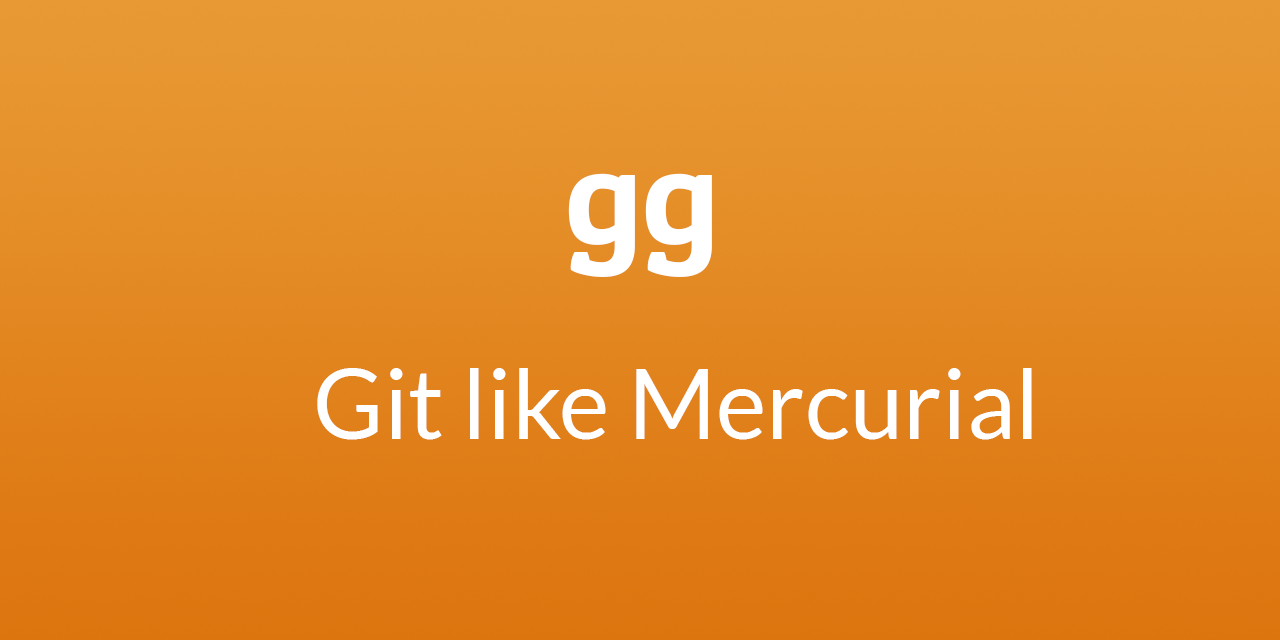
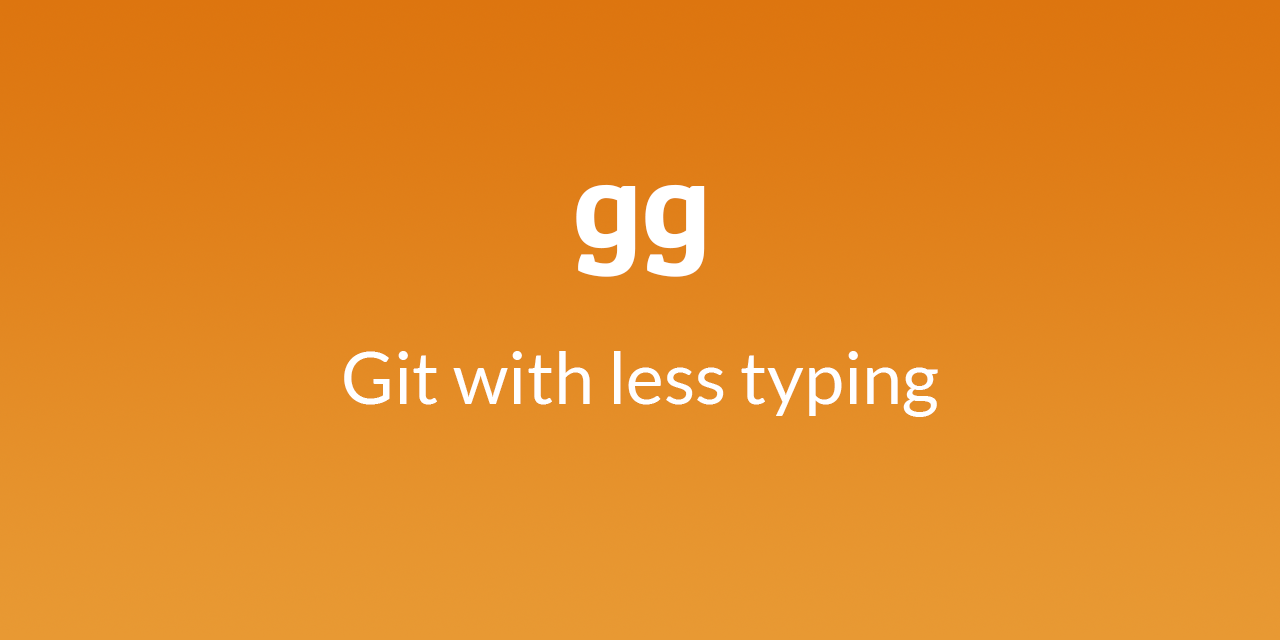
docs: add features write-up

diff --git a/docs/layouts/_default/baseof.html b/docs/layouts/_default/baseof.html
@@ -24,7 +24,7 @@
 <body id="page">
   <div id="top">
     <h1 id="site_title"><a id="site_title_link" href="/">gg</a></h1>
-    <div id="subtitle">Git like Mercurial</div>
+    <div id="subtitle">Git with less typing</div>
     <nav id="main_nav">
       <ul id="main_nav_list">
         {{range .Site.Menus.main -}}

diff --git a/docs/content/_index.md b/docs/content/_index.md
@@ -1,32 +1,38 @@
 ---
 title: "Home"
 date: 2018-06-13 08:48:58-07:00
-lastmod: 2018-07-07 15:35:48-07:00
+lastmod: 2020-06-22 16:30:00-07:00
 ---
 
-gg is a command-line wrapper around [Git][] that behaves like [Mercurial][]. It
-works well enough for the primary author's everyday use. It can be thought of as
-an alternate [porcelain][] for Git.
+gg is an alternative command-line interface for [Git][] heavily inspired by
+[Mercurial][]. It's designed for less typing in common workflows and make Git
+easier to use for both novices and advanced users alike.
 
-gg is built around three basic principles:
-
-1.  **gg should be good enough to replace the git CLI for common workflows, but
-    gg does not replace git.** Asking the user to duck down into git for some
-    arcana is perfectly acceptable if the alternative is adding complexity to
-    gg.
-2.  **Every gg command should map cleanly to a sequence of git commands.** gg's
-    implementation might interact with the .git directory directly for
-    efficiency, but only if a set of git CLI invocations would produce
-    equivalent results.
-3.  **Strive for Mercurial's command set, but don't be beholden to it.** For
-    example, gg uses git's revision parsing logic instead of trying to replicate
-    Mercurial's.  Branches act like Mercurial bookmarks rather than Mercurial's
-    branches, since Git doesn't have an equivalent concept.  Simplicity is
-    preferred over exact compatibility.
+-  **Abbreviations.** `git commit -a` takes 13 characters to type. [`gg ci`][]
+   takes 5 to do the same thing (don't worry, you can still type `gg commit`).
+-  **Built for GitHub and Gerrit.** gg has built-in support for [creating pull
+   requests][] and [creating Gerrit changesets][] straight from the
+   command-line. No more context switching.
+-  **Safer rebases.** [`gg rebase`][] automatically detects common mistakes while
+   rebasing and infers the correct change.
+-  **Local branches match remote branches.** Using [`gg pull`][] automatically
+   creates branches that match your remotes to avoid confusion.
+-  **Optional staging.** gg avoids using the staging area to save on typing and
+   mistakes. However, gg takes great care to avoid perturbing the staging area,
+   so for more advanced commits, you can keep using the same Git commands you're
+   used to.
+- **Works with existing Git tools.** You can use or not use gg as much as you
+  want in your workflow. gg is just a wrapper for the Git CLI, so it works with
+  any hooks or custom patches to Git that your project may use. You can see the
+  exact Git commands gg runs by passing in `--show-git`.
 
 [Git]: https://git-scm.com/
 [Mercurial]: https://www.mercurial-scm.org/
-[porcelain]: https://git-scm.com/book/en/v2/Git-Internals-Plumbing-and-Porcelain
+[creating Gerrit changesets]: {{< relref "workflows/gerrit.md" >}}
+[creating pull requests]: {{< relref "workflows/shared.md" >}}
+[`gg ci`]: {{< relref "commands/commit.md" >}}
+[`gg pull`]: {{< relref "commands/pull.md" >}}
+[`gg rebase`]: {{< relref "commands/rebase.md" >}}
 
 ## Getting Started
 

diff --git a/README.md b/README.md
@@ -1,11 +1,35 @@
-# gg
+# gg: Git with less typing
 
-gg is a wrapper around [Git][] that behaves like [Mercurial][]. It works well enough for
-my everyday use. It can be thought of as an alternate [porcelain][] for Git.
+gg is an alternative command-line interface for [Git][] heavily inspired by
+[Mercurial][]. It's designed for less typing in common workflows and make Git
+easier to use for both novices and advanced users alike.
+
+-  **Abbreviations.** `git commit -a` takes 13 characters to type. [`gg ci`][]
+   takes 5 to do the same thing. Don't worry, you can still type `gg commit`:
+   most common operations have shorter aliases.
+-  **Built for GitHub and Gerrit.** gg has built-in support for [creating pull
+   requests][] and [creating Gerrit changesets][] straight from the
+   command-line. No more context switching.
+-  **Safer rebases.** [`gg rebase`][] automatically detects common mistakes while
+   rebasing and infers the correct change.
+-  **Local branches match remote branches.** Using [`gg pull`][] automatically
+   creates branches that match your remotes to avoid confusion.
+-  **Optional staging.** gg avoids using the staging area to save on typing and
+   mistakes. However, gg takes great care to avoid perturbing the staging area,
+   so for more advanced commits, you can keep using the same Git commands you're
+   used to.
+- **Works with existing Git tools.** You can use or not use gg as much as you
+  want in your workflow. gg is just a wrapper for the Git CLI, so it works with
+  any hooks or custom patches to Git that your project may use. You can see the
+  exact Git commands gg runs by passing in `--show-git`.
 
 [Git]: https://git-scm.com/
 [Mercurial]: https://www.mercurial-scm.org/
-[porcelain]: https://git-scm.com/book/en/v2/Git-Internals-Plumbing-and-Porcelain
+[creating Gerrit changesets]: https://gg-scm.io/workflow/gerrit/
+[creating pull requests]: https://gg-scm.io/workflow/shared/
+[`gg ci`]: https://gg-scm.io/cmd/commit/
+[`gg pull`]: https://gg-scm.io/cmd/pull/
+[`gg rebase`]: https://gg-scm.io/cmd/rebase/
 
 ## Getting Started
 
